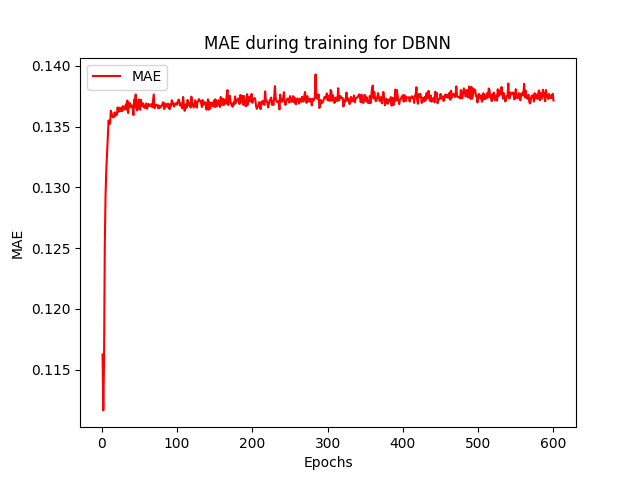
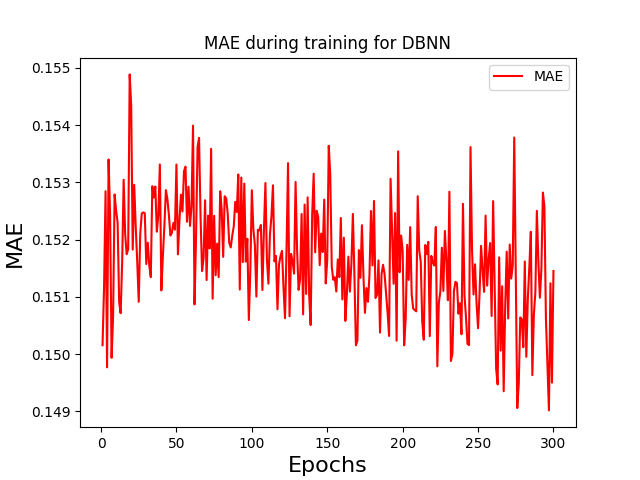
fix

diff --git a/func/plot.py b/func/plot.py
@@ -8,31 +8,31 @@ def plot_metrics(elbo, mae, r2, model_name):
     plt.figure()
     plt.plot(epochs, elbo, 'b', label='ELBO')
     plt.title(f'ELBO during training for {model_name}')
-    plt.xlabel('Epochs')
-    plt.ylabel('ELBO')
+    plt.xlabel('Epochs', fontsize=16)
+    plt.ylabel('ELBO', fontsize=16)
     plt.legend()
     plt.savefig(f'{model_name}_ELBO.png')
-    plt.show()
+    plt.close()
 
     # Plot MAE
     plt.figure()
     plt.plot(epochs, mae, 'r', label='MAE')
     plt.title(f'MAE during training for {model_name}')
-    plt.xlabel('Epochs')
-    plt.ylabel('MAE')
+    plt.xlabel('Epochs', fontsize=16)
+    plt.ylabel('MAE', fontsize=16)
     plt.legend()
     plt.savefig(f'{model_name}_MAE.png')
-    plt.show()
+    plt.close()
 
     # Plot R²
     plt.figure()
     plt.plot(epochs, r2, 'g', label='R²')
     plt.title(f'R² during training for {model_name}')
-    plt.xlabel('Epochs')
-    plt.ylabel('R²')
+    plt.xlabel('Epochs', fontsize=16)
+    plt.ylabel('R²', fontsize=16)
     plt.legend()
     plt.savefig(f'{model_name}_R2.png')
-    plt.show()
+    plt.close()
 
 def plot_accuracy(accuracy, model_name):
     epochs = range(1, len(accuracy) + 1)
@@ -40,11 +40,11 @@ def plot_accuracy(accuracy, model_name):
     plt.figure()
     plt.plot(epochs, accuracy, label=f'Accuracy {model_name}')
     plt.title(f'Accuracy during training for {model_name}')
-    plt.xlabel('Epochs')
-    plt.ylabel('Accuracy (%)')
+    plt.xlabel('Epochs', fontsize=16)
+    plt.ylabel('Accuracy (%)', fontsize=16)
     plt.legend()
     plt.savefig(f'{model_name}_Accuracy.png')
-    plt.show()
+    plt.close()
 
 def plot_accuracy_comparison(accuracy_bnn, accuracy_dbnn):
     epochs = range(1, len(accuracy_bnn) + 1)
@@ -53,11 +53,11 @@ def plot_accuracy_comparison(accuracy_bnn, accuracy_dbnn):
     plt.plot(epochs, accuracy_bnn, label='BNN Accuracy', color='blue')
     plt.plot(epochs, accuracy_dbnn, label='DBNN Accuracy', color='green')
     plt.title('Accuracy Comparison between BNN and DBNN')
-    plt.xlabel('Epochs')
-    plt.ylabel('Accuracy (%)')
+    plt.xlabel('Epochs', fontsize=16)
+    plt.ylabel('Accuracy (%)', fontsize=16)
     plt.legend()
     plt.savefig('Accuracy_Comparison.png')
-    plt.show()
+    plt.close()
 
 def make_predictions_and_plot_residuals(model1, model2, data_val, scaler_y_fit):
     for x_data, y_data in data_val:
@@ -71,41 +71,39 @@ def make_predictions_and_plot_residuals(model1, model2, data_val, scaler_y_fit):
         resids1 = (preds1_real - y_val_real).flatten()
         resids2 = (preds2_real - y_val_real).flatten()
 
+        # Gráfico para BNN
         plt.figure(figsize=(16, 7))
-
-        plt.subplot(1, 2, 1)
         plt.plot(y_val_real.flatten(), y_val_real.flatten(), color='green', zorder=3)
         plt.errorbar(y_val_real.flatten(), preds1_real.flatten(), yerr=np.abs(resids1), fmt="o", alpha=0.7, markersize=5, capsize=3, color='blue', ecolor='lightgray', elinewidth=2)
         plt.scatter(y_val_real.flatten(), preds1_real.flatten(), zorder=3, alpha=0.7, color='blue')
-        plt.xlabel(r'True values ($log(M_{\odot})$)', fontsize=24)
-        plt.ylabel(r'Predict values ($log(M_{\odot})$)', fontsize=24)
-        plt.xticks(fontsize=22)
-        plt.yticks(fontsize=22)
+        plt.xlabel(r'True values ($log(M_{\odot})$)', fontsize=16)
+        plt.ylabel(r'Predict values ($log(M_{\odot})$)', fontsize=16)
+        plt.xticks(fontsize=14)
+        plt.yticks(fontsize=14)
         plt.xlim(8.5, 10.7)
         plt.ylim(7, 12)
         plt.title('True vs Predicted for BNN')
         plt.grid(True)
-        plt.legend(['Ideal', 'Predictions'], fontsize=16)
+        plt.legend(['Ideal', 'Predictions'], fontsize=12)
         plt.savefig('realVSpreditoBNN.png')
+        plt.close()
 
-        plt.subplot(1, 2, 2)
+        # Gráfico para DBNN
+        plt.figure(figsize=(16, 7))
         plt.plot(y_val_real.flatten(), y_val_real.flatten(), color='green', zorder=3)
         plt.errorbar(y_val_real.flatten(), preds2_real.flatten(), yerr=np.abs(resids2), fmt="o", alpha=0.7, markersize=5, capsize=3, color='red', ecolor='lightgray', elinewidth=2)
         plt.scatter(y_val_real.flatten(), preds2_real.flatten(), zorder=3, alpha=0.7, color='red')
-        plt.xlabel(r'True values ($log(M_{\odot})$)', fontsize=24)
-        plt.ylabel(r'Predict values ($log(M_{\odot})$)', fontsize=24)
-        plt.xticks(fontsize=22)
-        plt.yticks(fontsize=22)
+        plt.xlabel(r'True values ($log(M_{\odot})$)', fontsize=16)
+        plt.ylabel(r'Predict values ($log(M_{\odot})$)', fontsize=16)
+        plt.xticks(fontsize=14)
+        plt.yticks(fontsize=14)
         plt.xlim(8.5, 10.7)
         plt.ylim(7, 12)
         plt.title('True vs Predicted for DBNN')
         plt.grid(True)
-        plt.legend(['Ideal', 'Predictions'], fontsize=16)
+        plt.legend(['Ideal', 'Predictions'], fontsize=12)
         plt.savefig('realVSpreditoDBNN.png')
-
-        plt.suptitle('True vs Predicted Values and Error Rates', fontsize=26)
-        plt.tight_layout()
-        plt.show()
+        plt.close()
 
 def plot_predictive_distributions(model1, model2, data_val, scaler_y_fit):
     for x_data, y_data in data_val:
@@ -116,29 +114,27 @@ def plot_predictive_distributions(model1, model2, data_val, scaler_y_fit):
         preds2_real = scaler_y_fit.inverse_transform(preds2[:, 0].reshape(-1, 1))
         y_val_real = scaler_y_fit.inverse_transform(y_data.numpy().reshape(-1, 1))
 
+        # Gráfico para BNN
         plt.figure(figsize=(12, 6))
-
-        plt.subplot(1, 2, 1)
         plt.hist(preds1_real, bins=50, alpha=0.5, label='BNN', density=True, color='blue')
         plt.hist(y_val_real, bins=50, alpha=0.5, label='True', density=True, color='red')
-        plt.xlabel('Predicted values')
-        plt.ylabel('Density')
+        plt.xlabel('Predicted values', fontsize=16)
+        plt.ylabel('Density', fontsize=16)
         plt.legend()
         plt.title('Predictive Distribution for BNN')
         plt.savefig('Predictive_Distribution_BNN.png')
+        plt.close()
 
-        plt.subplot(1, 2, 2)
+        # Gráfico para DBNN
+        plt.figure(figsize=(12, 6))
         plt.hist(preds2_real, bins=50, alpha=0.5, label='DBNN', density=True, color='green')
         plt.hist(y_val_real, bins=50, alpha=0.5, label='True', density=True, color='red')
-        plt.xlabel('Predicted values')
-        plt.ylabel('Density')
+        plt.xlabel('Predicted values', fontsize=16)
+        plt.ylabel('Density', fontsize=16)
         plt.legend()
         plt.title('Predictive Distribution for DBNN')
         plt.savefig('Predictive_Distribution_DBNN.png')
-
-        plt.suptitle('Predictive Distributions', fontsize=20)
-        plt.tight_layout()
-        plt.show()
+        plt.close()
 
 def compute_coverage_and_errors(model1, model2, x_val, y_val, scaler_x_fit, scaler_y_fit):
     y_pred1 = model1(x_val, sampling=True).numpy()
@@ -160,9 +156,9 @@ def plot_error(mae1, mae2, epochs):
     plt.figure()
     plt.plot(epochs_range, mae1, label='BNN MAE', color='blue')
     plt.plot(epochs_range, mae2, label='DBNN MAE', color='green')
-    plt.xlabel('Epochs')
-    plt.ylabel('MAE')
+    plt.xlabel('Epochs', fontsize=16)
+    plt.ylabel('MAE', fontsize=16)
     plt.legend()
     plt.title('MAE Comparison between BNN and DBNN')
     plt.savefig('MAE_Comparison.png')
-    plt.show()
+    plt.close()

diff --git a/bayesian_model.py b/bayesian_model.py
@@ -30,8 +30,8 @@ def main():
     val_split = 0.2
     seed = 1601
     batch_size = 256  # Ajuste no tamanho do lote
-    epochs = 600  # Ajuste no número de épocas
-    learning_rate = 1e-5  # Ajuste na taxa de aprendizado
+    epochs = 300  # Ajuste no número de épocas
+    learning_rate = 1e-4  # Ajuste na taxa de aprendizado
     weight_decay = 1e-6  # Adicionando weight decay
 
     # Carregar e pré-processar os dados
